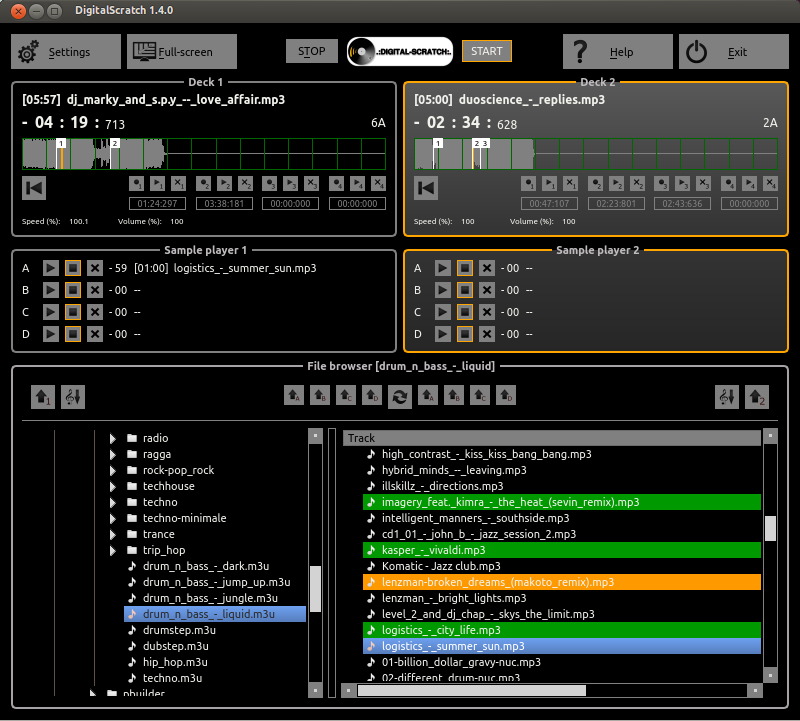
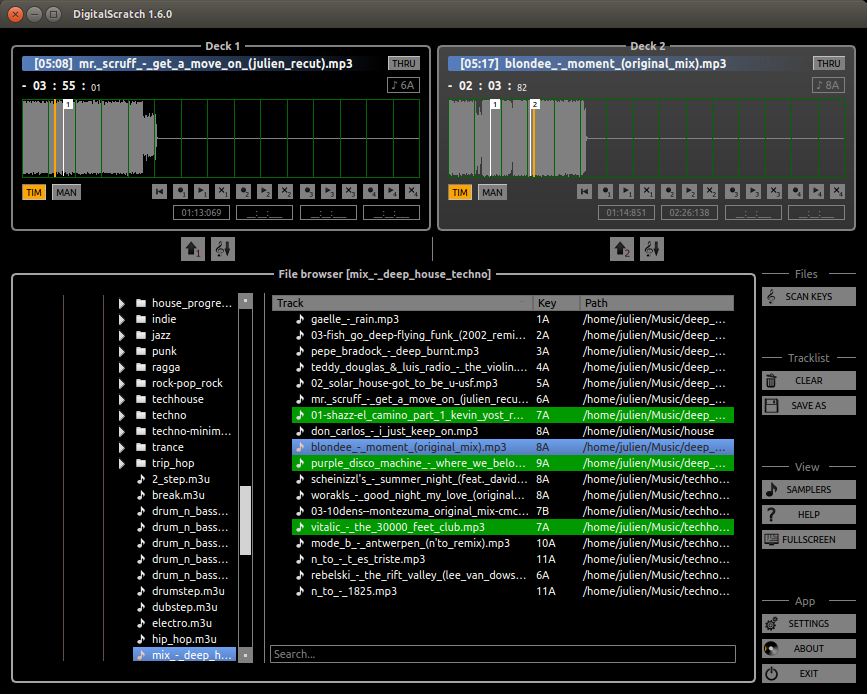
Switch to new release 1.6.0

diff --git a/screenshots.html b/screenshots.html
@@ -56,9 +56,8 @@
       </div>
       <!-- Content panel -->
       <div class="row">
-        <div class="span8">
-          <h2>Main window</h2>
-          <h5>Players and file browser</h5>
+        <div class="span6">
+          <h3>Players and file browser</h3>
           <p>This is the main window composed by: 
             <ul>
               <li>2 players (deck1/deck2) which can play tracks of max 15 min, waveform can be clicked to jump in tracks, 4 cue points can be set</li>
@@ -67,7 +66,10 @@
               <li>a file explorer, root directory has to be defined in configuration dialog</li>
               <li>help for keyboard shortcuts, could be defined in configuration dialog</li>
             </ul>
-            <h5>Harmonic mixing</h5>
+         </p>
+        </div>
+        <div class="span6">
+            <h3>Harmonic mixing</h3>
             <p>
               Highlighting in file explorer is used to show which files are musically compatible with the current one. This is called <a href="http://en.wikipedia.org/wiki/Harmonic_mixing">Harmonic mixing</a>.
             </p>
@@ -78,42 +80,27 @@
                 <li><em>orange</em>: the next track is higher (major B) or lower (minor A) than the current one</li>
               </ul>
             </p>
-            <p>
-              <a href="screenshots/screenshot-main.png" class="light"><img src="screenshots/screenshot-main-small.png" alt="Digital Scratch 1.1.0 - Main window" /></a>
-            </p>
-          </p>
         </div>
-        <div class="span4">
-          <h2>Config dialog</h2>
-          <p>
-            <p>
-              <a href="screenshots/screenshot-config_player.png" class="light"><img src="screenshots/screenshot-config_player.png" alt="Digital Scratch 1.1.0 - Config dialog (player)" /></a>
-            </p>
-            <p>
-              <a href="screenshots/screenshot-config_sound_card.png" class="light"><img src="screenshots/screenshot-config_sound_card.png" alt="Digital Scratch 1.1.0 - Config dialog (sound card)" /></a>
-            </p>
-            <p>
-              <a href="screenshots/screenshot-config_motion.png" class="light"><img src="screenshots/screenshot-config_motion.png" alt="Digital Scratch 1.1.0 - Config dialog (motion detection)" /></a>
-            </p>
-            <p>
-              <a href="screenshots/screenshot-config_shortcuts.png" class="light"><img src="screenshots/screenshot-config_shortcuts.png" alt="Digital Scratch 1.1.0 - Config dialog (shortcuts)" /></a>
-            </p>
-          </p>
-        </div>
+      </div>
+      <div class="row">
+        <div class="span12">
+         <p>
+           <p style="text-align: center;"><a href="screenshots/screenshot-main.png" class="light"><img src="screenshots/screenshot-main-small.png" alt="Digital Scratch 1.1.0 - Main window" /></a></p>
+         </p>
       </div>
       <p>
       </p>
       <div class="row">
-        <div class="span8">
-          <h2>Jack configuration</h2>
+        <div class="span6">
+          <h3>Jack configuration</h3>
           <p>
-              <a href="screenshots/screenshot-jack_config.png" class="light"><img src="screenshots/screenshot-jack_config.png" alt="Digital Scratch - ESI U46DJ Jack configuration" /></a>
+            <p style="text-align: center;"><a href="screenshots/screenshot-jack_config.png" class="light"><img src="screenshots/screenshot-jack_config.png" alt="Digital Scratch - ESI U46DJ Jack configuration" /></a></p>
           </p>
         </div>
-        <div class="span4">
-          <h2>Jack connections</h2>
+        <div class="span6">
+          <h3>Jack connections</h3>
           <p>
-            <a href="screenshots/screenshot-jack.png" class="light"><img src="screenshots/screenshot-jack.png" alt="Digital Scratch - ESI U46DJ Jack connections" /></a>
+            <p style="text-align: center;"><a href="screenshots/screenshot-jack.png" class="light"><img src="screenshots/screenshot-jack.png" alt="Digital Scratch - ESI U46DJ Jack connections" /></a></p>
           </p>
         </div>
       </div>

diff --git a/download.html b/download.html
@@ -55,7 +55,7 @@
         </div>
       </div>
       <!-- Content panel -->
-      <h2>Digital-Scratch v1.5.0 (March 2014)</h2>
+      <h2>Digital-Scratch v1.6.0 (May 2015)</h2>
       <h5>Ubuntu GNU/Linux</h5>
       <p>Ubuntu packages for i386 and amd64. Please type the following commands in a terminal:</p>
       <ul>
@@ -73,10 +73,10 @@
         <li><code>sudo apt-get install digitalscratch</code></li>        
       </ul>
       <h5>Windows</h5>
-      <p>Digital-Scratch for Windows 7/8: <a href="https://github.com/jrosener/digitalscratch/releases/download/v1.5.0/digitalscratch-1.5.0.msi">digitalscratch-1.5.0.msi</a></p>
+      <p>Digital-Scratch for Windows 7/8: <a href="https://github.com/jrosener/digitalscratch/releases/download/v1.6.0/digitalscratch-1.6.0.msi">digitalscratch-1.6.0.msi</a></p>
       <p>Check this page to run Digital-Scratch on Windows: <a href="https://github.com/jrosener/digitalscratch/wiki/Run-DigitalScratch-on-Windows">how to</a></p>
       <h5>Source code</h5>
-      <p>Source code of <em>digitalscratch</em> and <em>libdigitalscratch</em>: <a href="https://github.com/jrosener/digitalscratch/archive/v1.5.0.tar.gz">digitalscratch-1.5.0.tar.gz</a></p>
+      <p>Source code of <em>digitalscratch</em> and <em>libdigitalscratch</em>: <a href="https://github.com/jrosener/digitalscratch/archive/v1.6.0.tar.gz">digitalscratch-1.6.0.tar.gz</a></p>
       <h5>Previous versions</h5>
       <p>Check the <a href="https://github.com/jrosener/digitalscratch/releases">release page</a>.</p>
       <hr />

diff --git a/index.html b/index.html
@@ -78,7 +78,7 @@
             </ul>
           </p>
           <p>
-            <a class="btn" href="download.html">Download v1.5.0 &#187;</a>
+            <a class="btn" href="download.html">Download v1.6.0 &#187;</a>
           </p>
         </div>
         <div class="span4">
